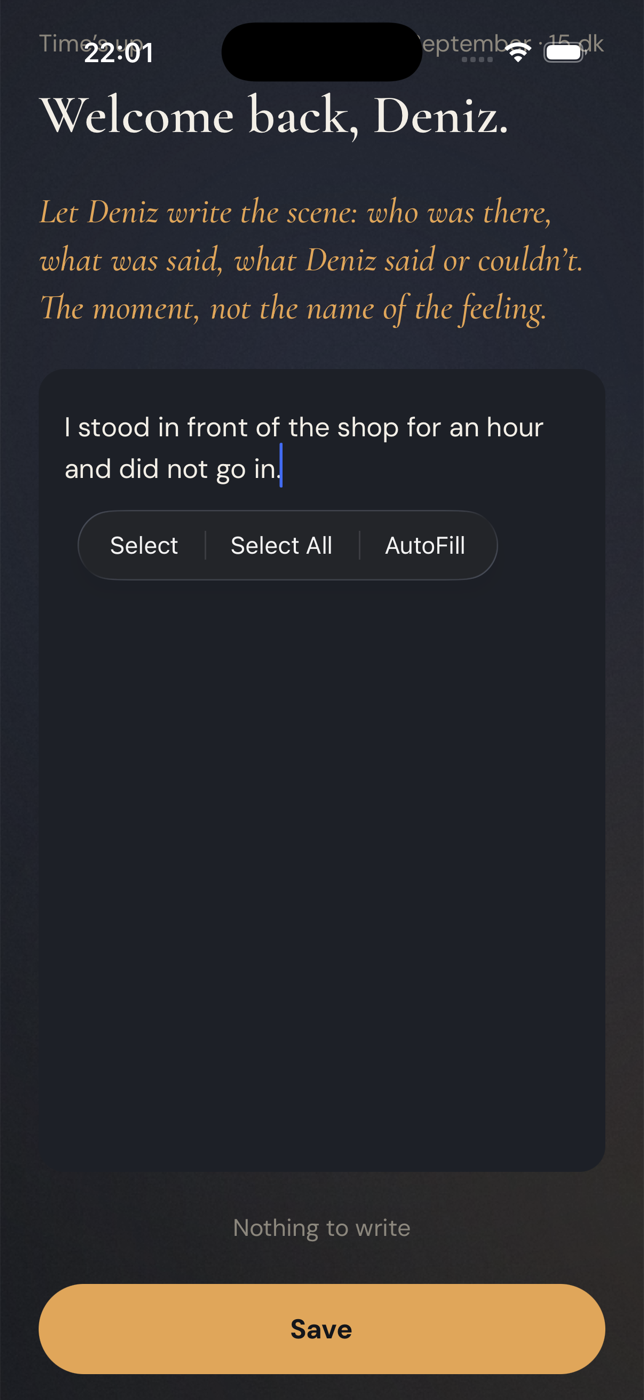
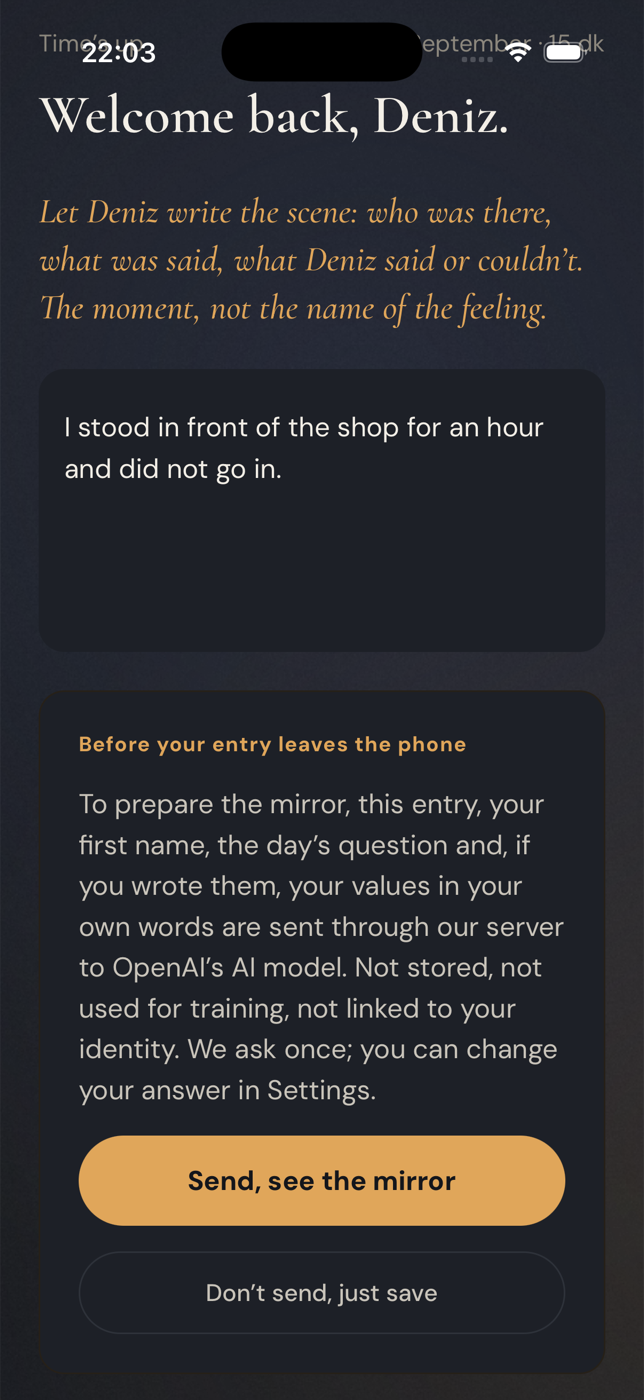
Pondr: izin karti gorseli Ingilizce

diff --git a/pondr/index.html b/pondr/index.html
@@ -247,7 +247,7 @@
             <figcaption style="color: var(--w-muted); font-size: 0.9rem; margin-top: 10px;">A module — what happens, why it works, what it leaves behind.</figcaption>
           </figure>
           <figure style="margin: 0;">
-            <img src="../assets/pondr/izin.png?v=2" alt="The consent card before the first entry leaves the phone" style="width: 100%; border-radius: 22px; border: 1px solid var(--w-line);" />
+            <img src="../assets/pondr/izin.png?v=3" alt="The consent card before the first entry leaves the phone" style="width: 100%; border-radius: 22px; border: 1px solid var(--w-line);" />
             <figcaption style="color: var(--w-muted); font-size: 0.9rem; margin-top: 10px;">Before the first send — asked once, plainly, with a real no.</figcaption>
           </figure>
         </div>
